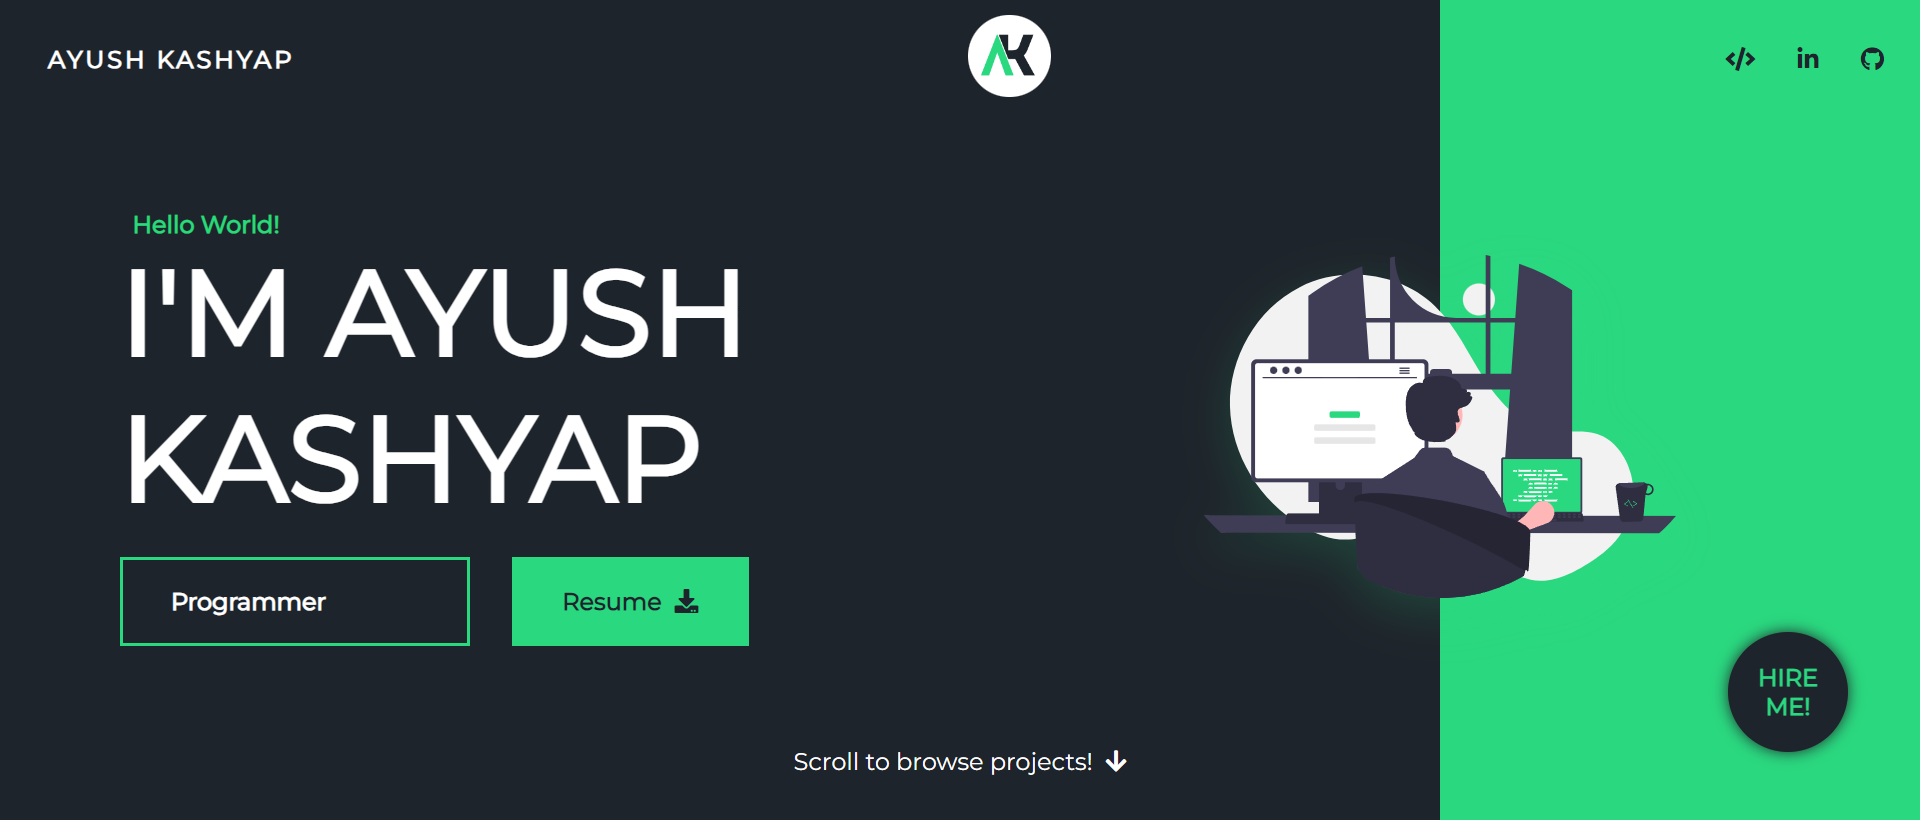
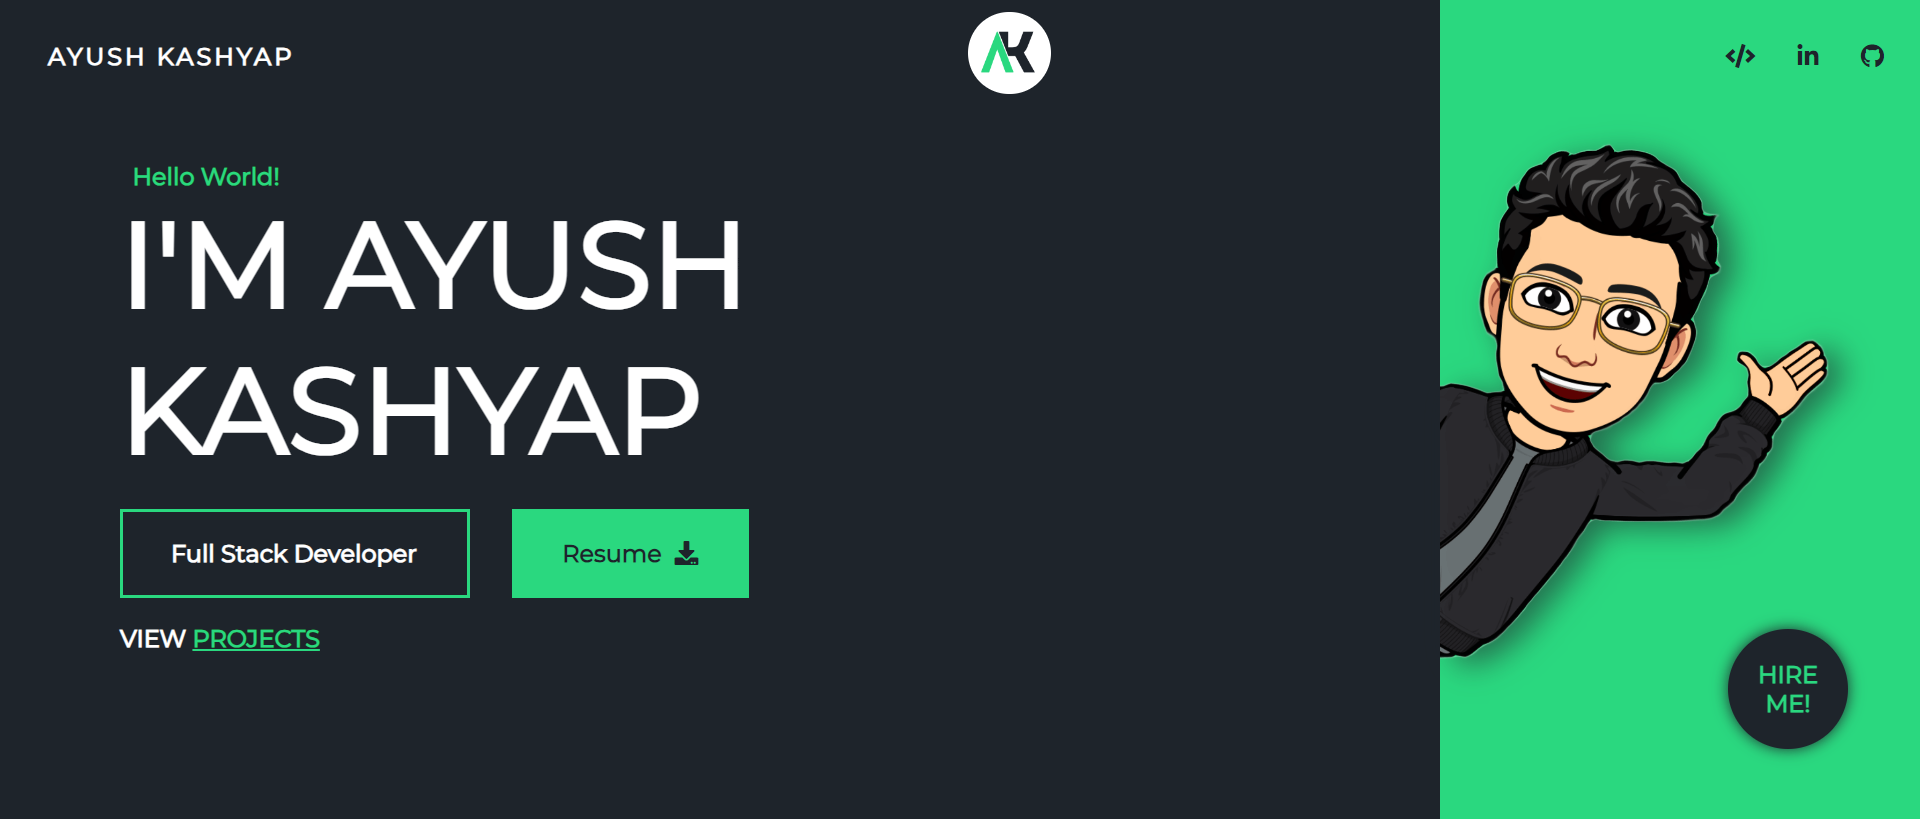
added new styles

diff --git a/projects.html b/projects.html
@@ -10,8 +10,9 @@
     <meta name="keywords" content="Projects by Ayush Kashyap, Web Development Projects, Web apps, Projects">
     <meta name="description" content="Hello there, I'm Ayush Kashyap, a full stack developer and programmer. I love diving into the nitty-gritty of software development, whether it's creating beautiful front-end interfaces or architecting powerful backend systems. Excited to be here and share some of my experiences with you all!">
     <script src="https://kit.fontawesome.com/5f1318dd38.js" crossorigin="anonymous"></script>
+    
 </head>
-<body>
+<body >
     <header>
         <nav class="logo-nav">
             <a href="/" class="logo-text">AYUSH KASHYAP</a>
@@ -39,8 +40,8 @@
         </div>
         
     </div>
-    <div class="projects">
-        <div class="cards">
+    <div class="projects" >
+        <div class="cards"  >
             <img src="asset/projects/portfolio.png" alt="proj">
             <div class="aboutPrj"><div class="top"><h3><i class="fa fa-code-branch"></i>  Portfolio</h3> <em>06-March-2024</em></div>
                 <p>
@@ -54,7 +55,7 @@
             </div>
             </div>
         </div>
-        <div class="cards">
+        <div class="cards"  >
             <img src="asset/projects/baatein cover.png" alt="proj">
             <div class="aboutPrj"><div class="top"><h3><i class="fa fa-code-branch"></i>  Baatein</h3> <em>11-October-2023</em></div>
                 <p>
@@ -69,7 +70,7 @@
             </div>
             
         </div>
-        <div class="cards">
+        <div class="cards"  >
             <img src="asset/projects/khaopiyo.png" alt="proj">
             <div class="aboutPrj"><div class="top"><h3><i class="fa fa-code-branch"></i>  Khao Piyo</h3> <em>August-2023</em></div>
                 <p>
@@ -84,7 +85,7 @@
             </div>
             
         </div>
-        <div class="cards">
+        <div class="cards"  >
             <img src="asset/projects/dragondodge.png" alt="proj">
             <div class="aboutPrj"><div class="top"><h3><i class="fa fa-code-branch"></i>  Dragon Dodge Game</h3> <em>21-August-2021</em></div>
                 <p>
@@ -103,7 +104,9 @@
         </div>
         
     </div>
+    
     <script>
+        
         window.addEventListener("scroll",callProject);
 
 function callProject(){

diff --git a/style.css b/style.css
@@ -14,11 +14,18 @@ body{
     padding: 0;
 }
 body::-webkit-scrollbar{
-    display: none;
+    width: 5px;
+}
+body::-webkit-scrollbar-thumb{
+    background-color: var(--secondary);
+    border-radius: 2rem;
+}
+body::-webkit-scrollbar-track{
+    background-color: var(--primary);
 }
 .main-container{
     height: 100vh;
-    width: 100vw;
+    width: 100%;
     display: grid;
     grid-template-columns: 3fr 1fr;
 }
@@ -48,7 +55,7 @@ header{
     display: flex;
     align-items: center;
     justify-content: space-between;
-    width: 100vw;
+    width: 100%;
 }
 .logo-text{
     font-weight: bold;
@@ -150,7 +157,7 @@ header img{
 }
 .down{
     position: absolute;
-    width:100vw;
+    width:100%;
     bottom: 1rem;
     text-align: center;
     color: white;
@@ -178,8 +185,8 @@ header img{
         color: var(--primary);
     }
     .left,.right{
-        width: 100vw;
-        max-width: 100vw;
+        width: 100%;
+        max-width: 100%;
     }
     .left{
         height: 80vh;

diff --git a/prjstyle.css b/prjstyle.css
@@ -29,12 +29,11 @@
     font-size: 2rem;
 }
 .projects{
-    width: 100vw;
+    width: 100%;
     background-color: var(--secondary);
     display: flex;
     justify-content: space-evenly;
     flex-wrap: wrap;
-    overflow: scroll;
     box-sizing: border-box;
     align-items: center;
     padding: 2rem 0;
@@ -128,6 +127,14 @@
 .left{
     padding: 0;
     align-items: center;
+}
+.bottom{
+    flex-direction: column;
+
+}
+.btn-h{
+    width: 100%;
+    margin: 0.2rem 0;
 }
 .left p{
     font-size: 1rem;
